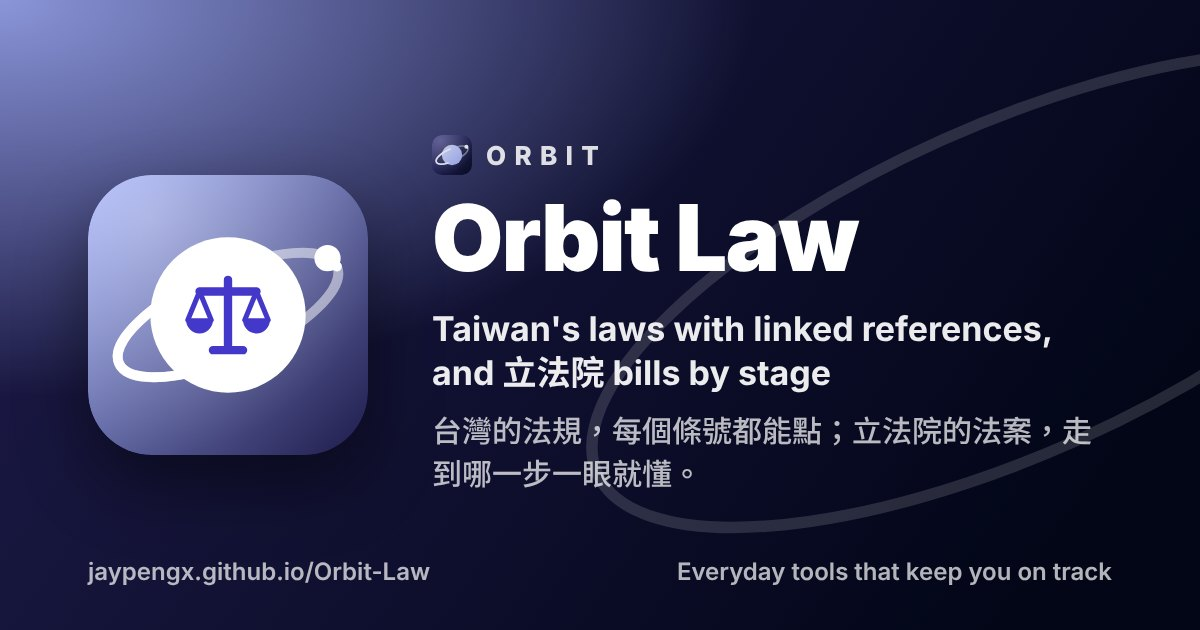
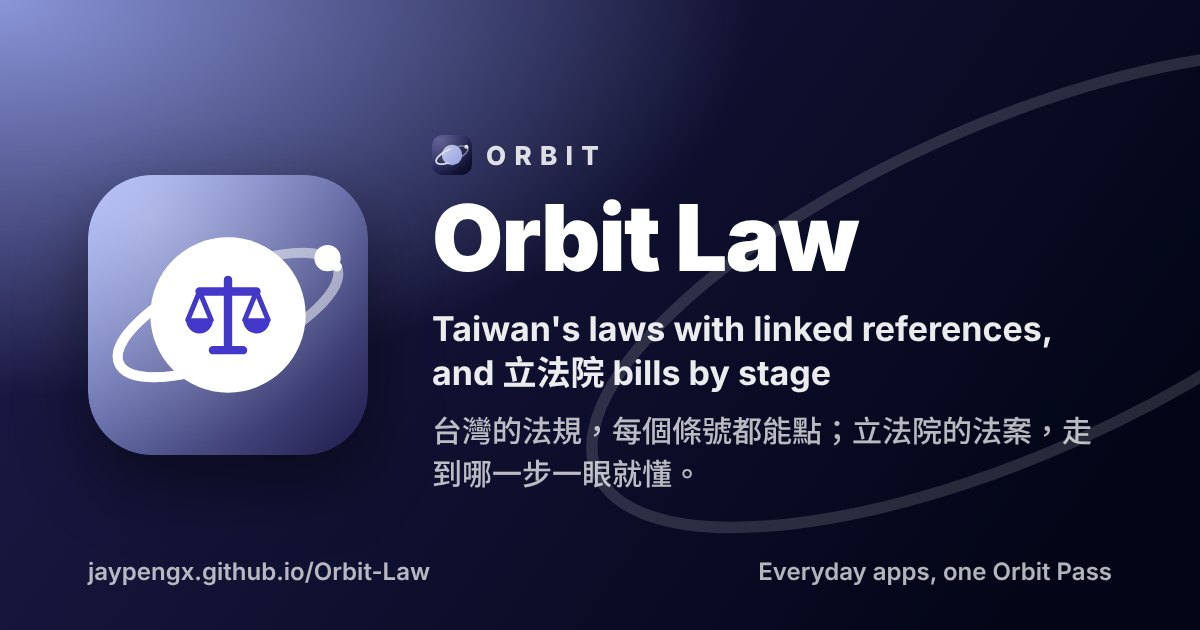
Quadra is now Orbit: Orbit Pass, Orbit Securities, one family; kit orbit.mjs/orbit.css, ORBIT_KIT, orbit.* keys
Claude-Session: https://claude.ai/code/session_017Z8MjamomJpVEaRoiMWmHA

Changed region(s): [[0.555, 0.8746, 0.925, 0.9349]]

diff --git a/public/index.html b/public/index.html
@@ -45,21 +45,21 @@
 <link rel="preload" href="./data/index.json" as="fetch" crossorigin />
 <!-- kit:head: where the app's stylesheets end, before any module. The kit
      comes from one place for every app (Shared-Proxy's GitHub Pages, same
-     site as the apps), each file at the hash this device last saw (quadra.kit
-     and quadra.kitFiles, noted from the kit's version.json by boot.js and
-     quadra.mjs kitLatest; on a first visit the hashes the app's deploy
+     site as the apps), each file at the hash this device last saw (orbit.kit
+     and orbit.kitFiles, noted from the kit's version.json by boot.js and
+     orbit.mjs kitLatest; on a first visit the hashes the app's deploy
      baked in, the `null` at the end), so a change to the kit is one push
      to Shared-Proxy and a phone downloads only the files it changed. A kit
      file newer than the app's deploy (not in its list) is mapped from those
      hashes too, never left at a bare address the browser keeps 10 minutes. -->
-<script>!function(b,d,v,h,n,m,f,i,u){try{v=localStorage.getItem('quadra.kit')||'';h=JSON.parse(localStorage.getItem('quadra.kitFiles')||'null')}catch(e){v=''}n=!!v;if(!n&&d){v=d.version;h=d}h=h&&h.version===v?h.files:null;u=function(x){var k=h&&h[x];return b+x+(k?'?v='+k:v?'?v='+encodeURIComponent(v):'')};m={'#kit/':b};f=['brand.mjs','catalog.mjs','devconfig.mjs','f1live.mjs','format.mjs','gov.mjs','help.mjs','holidays.mjs','lang.mjs','loan.mjs','logos.mjs','mirror.mjs','names.mjs','pass-sync.mjs','pass.mjs','photo-urls.mjs','photos.mjs','play-alive.mjs','play-bets.mjs','play-board.mjs','play-boardfile.mjs','play-cashout.mjs','play-house.mjs','play-kambi.mjs','play-lines.mjs','play-live.mjs','play-lottery.mjs','play-markets.mjs','play-odds.mjs','play-offers.mjs','play-players.mjs','play-propmodel.mjs','play-props.mjs','play-recommend.mjs','play-rules.mjs','play-schedules.mjs','play-scratch.mjs','play-sources.mjs','play-teams.mjs','plus.mjs','postseason.mjs','quadra.mjs','settle.mjs','sports-broadcast.mjs','sports-espn.mjs','sports-highlights.mjs','sports-winprob.mjs','stock-account.mjs','stock-bonds.mjs','stock-codec.mjs','stock-credit.mjs','stock-hk-lots.mjs','stock-holidays.mjs','stock-ipo.mjs','stock-jp-lists.mjs','stock-markets.mjs','stock-quotes.mjs','stock-savings.mjs','truth.mjs','ui.mjs'];for(i=0;i<f.length;i++)m['#kit/'+f[i]]=u(f[i]);if(h)for(i in h)/\.mjs$/.test(i)&&(m['#kit/'+i]=u(i));window.QUADRA_KIT={base:b,version:v,noted:n,url:u};document.write('<script type="import'+'map">'+JSON.stringify({imports:m})+'<\/script><link rel="stylesheet" href="'+u('quadra.css')+'"><link rel="modulepreload" href="'+u('quadra.mjs')+'"><link rel="modulepreload" href="'+u('brand.mjs')+'">')}('../Shared-Proxy/kit/',null)</script>
+<script>!function(b,d,v,h,n,m,f,i,u){try{v=localStorage.getItem('orbit.kit')||'';h=JSON.parse(localStorage.getItem('orbit.kitFiles')||'null')}catch(e){v=''}n=!!v;if(!n&&d){v=d.version;h=d}h=h&&h.version===v?h.files:null;u=function(x){var k=h&&h[x];return b+x+(k?'?v='+k:v?'?v='+encodeURIComponent(v):'')};m={'#kit/':b};f=['brand.mjs','catalog.mjs','dayoff.mjs','devconfig.mjs','f1live.mjs','format.mjs','gov.mjs','help.mjs','holidays.mjs','lang.mjs','loan.mjs','logos.mjs','mirror.mjs','names.mjs','orbit.mjs','pass-sync.mjs','pass.mjs','photo-urls.mjs','photos.mjs','play-alive.mjs','play-bets.mjs','play-board.mjs','play-boardfile.mjs','play-house.mjs','play-kambi.mjs','play-lines.mjs','play-live.mjs','play-lottery.mjs','play-markets.mjs','play-odds.mjs','play-offers.mjs','play-players.mjs','play-props.mjs','play-recommend.mjs','play-rules.mjs','play-schedules.mjs','play-scratch.mjs','play-sources.mjs','play-teams.mjs','postseason.mjs','settle.mjs','sports-broadcast.mjs','sports-espn.mjs','sports-highlights.mjs','sports-winprob.mjs','stock-account.mjs','stock-bonds.mjs','stock-codec.mjs','stock-credit.mjs','stock-hk-lots.mjs','stock-holidays.mjs','stock-ipo.mjs','stock-jp-lists.mjs','stock-markets.mjs','stock-quotes.mjs','stock-savings.mjs','ui.mjs'];for(i=0;i<f.length;i++)m['#kit/'+f[i]]=u(f[i]);if(h)for(i in h)/\.mjs$/.test(i)&&(m['#kit/'+i]=u(i));window.ORBIT_KIT={base:b,version:v,noted:n,url:u};document.write('<script type="import'+'map">'+JSON.stringify({imports:m})+'<\/script><link rel="stylesheet" href="'+u('orbit.css')+'"><link rel="modulepreload" href="'+u('orbit.mjs')+'"><link rel="modulepreload" href="'+u('brand.mjs')+'">')}('../Shared-Proxy/kit/',null)</script>
 <!-- /kit:head -->
 <link rel="stylesheet" href="./law.css" />
 </head>
 <body>
 <div id="loading" data-title="Orbit Law"></div>
 <!-- kit:boot: right after <div id="loading">. -->
-<script>document.write('<script src="'+QUADRA_KIT.url('boot.js')+'"><\/script>')</script>
+<script>document.write('<script src="'+ORBIT_KIT.url('boot.js')+'"><\/script>')</script>
 <!-- /kit:boot -->
 <header class="q-appbar">
   <div class="q-appbar-inner">

diff --git a/public/law.css b/public/law.css
@@ -1,10 +1,10 @@
-/* Orbit Law: the kit's frame (quadra.css: tokens, sections, chips, sheets)
+/* Orbit Law: the kit's frame (orbit.css: tokens, sections, chips, sheets)
    plus the app's own pieces on an 8px rhythm: topic tiles, bill cards with
    their bar, law rows, the reader's type, 問法律's answers. Light and dark
    both come from the kit's tokens. */
 
 .lw-panel {
-  /* The kit's column: the phone's 16 px in, the iPad's whole width (quadra.css .q-col). */
+  /* The kit's column: the phone's 16 px in, the iPad's whole width (orbit.css .q-col). */
   --q-margin: var(--q-gutter, 16px);
   max-width: var(--q-col, 640px);
   margin: 0 auto;

diff --git a/public/sw.js b/public/sw.js
@@ -5,7 +5,7 @@
 // with the old file for a while after a deploy).
 // Every law and bill file once opened (data/): the kept copy at once,
 // refreshed behind it, since the data changes once a day.
-self.QUADRA_SW = {
+self.ORBIT_SW = {
   cache: 'orbit-law-v1',
   title: 'Orbit Law',
   route: (request, url) => (request.mode !== 'navigate' && url.pathname.includes('/data/') ? 'pageFirst' : null)

diff --git a/README.md b/README.md
@@ -3,7 +3,7 @@
 Taiwan's law on three sides that link to each other: the laws to read
 (法規), with every reference a link; the courts' rulings on them (裁判:
 憲法法庭's every 釋字 and 憲判字, the top courts' judgments); and the bills in
-立法院 that will change them (立法), stage by stage. Behind the Quadra Pass
+立法院 that will change them (立法), stage by stage. Behind the Orbit Pass
 like every Orbit app; the data is public, built onto this site once a day,
 and works offline once opened. Tabs: 首頁 (one search, 問法律) · 法規 · 裁判 ·
 立法 · 我的.
